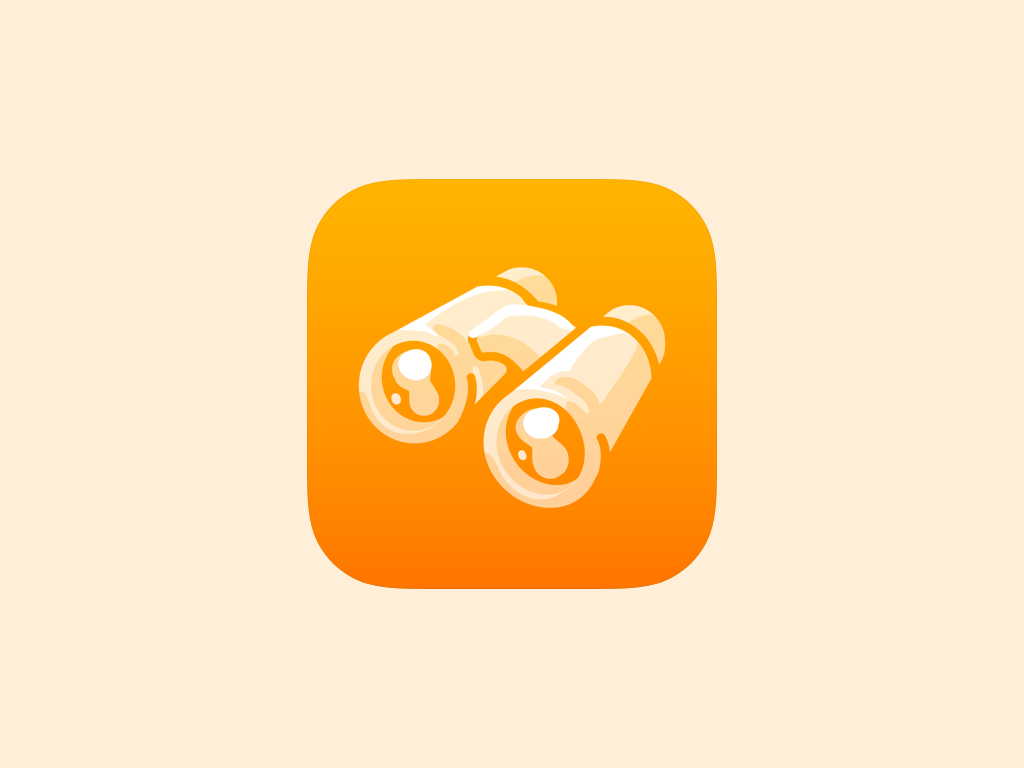
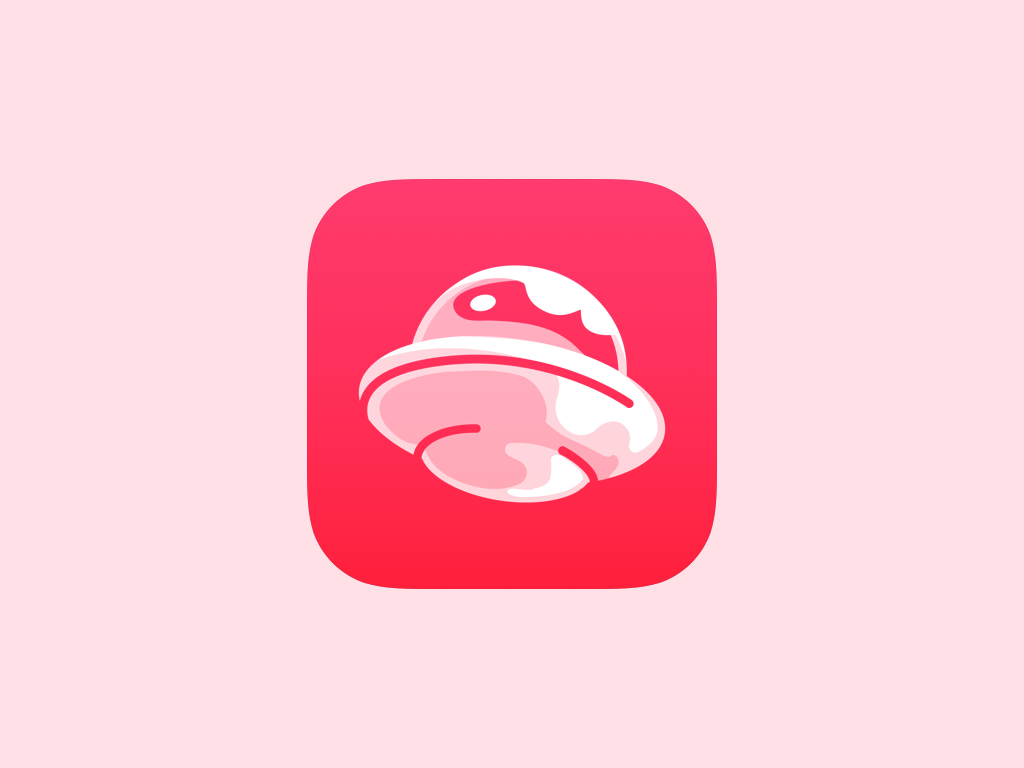
Feat/ cameraView 완료

Changed region(s): [[0.2812, 0.2188, 0.7188, 0.7812]]

diff --git a/Twiddle.swiftpm/FrameHandler.swift b/Twiddle.swiftpm/FrameHandler.swift
@@ -1,0 +1,79 @@
+import AVFoundation
+import CoreImage
+
+class FrameHandler: NSObject, ObservableObject {
+    @Published var frame: CGImage?
+    private var permissionGranted = true
+    private let captureSession = AVCaptureSession()
+    private let sessionQueue = DispatchQueue(label: "sessionQueue")
+    private let context = CIContext()
+    
+    
+    override init() {
+        super.init()
+        self.checkPermission()
+        sessionQueue.async { [unowned self] in
+            self.setupCaptureSession()
+            self.captureSession.startRunning()
+        }
+    }
+    
+    func checkPermission() {
+        switch AVCaptureDevice.authorizationStatus(for: .video) {
+        case .authorized: // The user has previously granted access to the camera.
+            self.permissionGranted = true
+            
+        case .notDetermined: // The user has not yet been asked for camera access.
+            self.requestPermission()
+            
+            // Combine the two other cases into the default case
+        default:
+            self.permissionGranted = false
+        }
+    }
+    
+    func requestPermission() {
+        // Strong reference not a problem here but might become one in the future.
+        AVCaptureDevice.requestAccess(for: .video) { [unowned self] granted in
+            self.permissionGranted = granted
+        }
+    }
+    
+    func setupCaptureSession() {
+        let videoOutput = AVCaptureVideoDataOutput()
+        
+        guard permissionGranted else { return }
+        
+        guard let videoDevice = AVCaptureDevice.default(.builtInWideAngleCamera,for: .video, position: .front) else { return }
+        //guard let videoDevice = AVCaptureDevice.default(.builtInTrueDepthCamera,for: .video, position: .front) else { return }
+        
+        
+        guard let videoDeviceInput = try? AVCaptureDeviceInput(device: videoDevice) else { return }
+        guard captureSession.canAddInput(videoDeviceInput) else { return }
+        captureSession.addInput(videoDeviceInput)
+        
+        videoOutput.setSampleBufferDelegate(self, queue: DispatchQueue(label: "sampleBufferQueue"))
+        captureSession.addOutput(videoOutput)
+    }
+}
+
+
+extension FrameHandler: AVCaptureVideoDataOutputSampleBufferDelegate {
+    func captureOutput(_ output: AVCaptureOutput, didOutput sampleBuffer: CMSampleBuffer, from connection: AVCaptureConnection) {
+        guard let cgImage = imageFromSampleBuffer(sampleBuffer: sampleBuffer) else { return }
+        
+        // All UI updates should be/ must be performed on the main queue.
+        DispatchQueue.main.async { [unowned self] in
+            self.frame = cgImage
+        }
+    }
+    
+    private func imageFromSampleBuffer(sampleBuffer: CMSampleBuffer) -> CGImage? {
+        guard let imageBuffer = CMSampleBufferGetImageBuffer(sampleBuffer) else { return nil }
+        let ciImage = CIImage(cvPixelBuffer: imageBuffer)
+        guard let cgImage = context.createCGImage(ciImage, from: ciImage.extent) else { return nil }
+        
+        return cgImage
+    }
+    
+}

diff --git a/Twiddle.swiftpm/Package.swift b/Twiddle.swiftpm/Package.swift
@@ -8,18 +8,18 @@ import PackageDescription
 import AppleProductTypes
 
 let package = Package(
-    name: "My App",
+    name: "Twiddle",
     platforms: [
         .iOS("18.0")
     ],
     products: [
         .iOSApplication(
-            name: "My App",
+            name: "Twiddle",
             targets: ["AppModule"],
             displayVersion: "1.0",
             bundleVersion: "1",
-            appIcon: .placeholder(icon: .binoculars),
-            accentColor: .presetColor(.orange),
+            appIcon: .placeholder(icon: .rocket),
+            accentColor: .presetColor(.pink),
             supportedDeviceFamilies: [
                 .pad,
                 .phone
@@ -29,6 +29,9 @@ let package = Package(
                 .landscapeRight,
                 .landscapeLeft,
                 .portraitUpsideDown(.when(deviceFamilies: [.pad]))
+            ],
+            capabilities: [
+                .camera(purposeString: "Camera required for playing games.")
             ]
         )
     ],

diff --git a/Twiddle.swiftpm/ContentView.swift b/Twiddle.swiftpm/ContentView.swift
@@ -1,12 +1,10 @@
 import SwiftUI
 
 struct ContentView: View {
+    @StateObject private var model = FrameHandler()
+    
     var body: some View {
-        VStack {
-            Image(systemName: "globe")
-                .imageScale(.large)
-                .foregroundColor(.accentColor)
-            Text("Hello, world!")
-        }
+        FrameView(image: model.frame)
+            .ignoresSafeArea()
     }
 }

diff --git a/Twiddle.swiftpm/FrameView.swift b/Twiddle.swiftpm/FrameView.swift
@@ -1,0 +1,15 @@
+import SwiftUI
+
+struct FrameView: View {
+    var image: CGImage?
+    private let label = Text("frame")
+    
+    var body: some View {
+        if let image = image {
+            // camera Image를 받을 곳
+            Image(image, scale: 1.0, orientation: .up, label: label)
+        } else {
+            Color.black
+        }
+    }
+}
